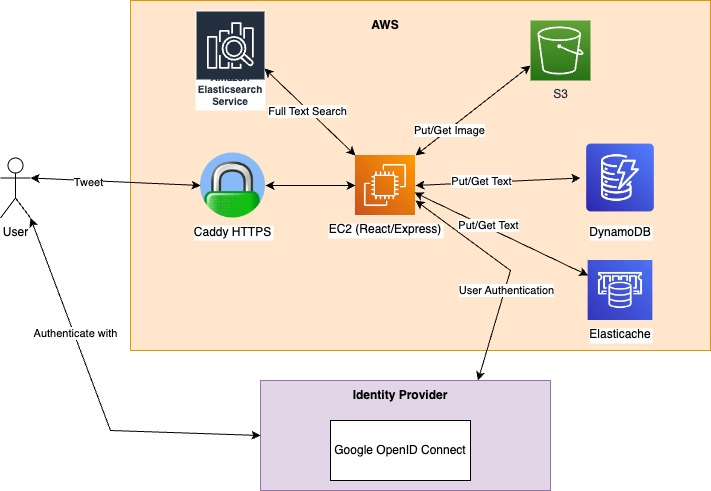
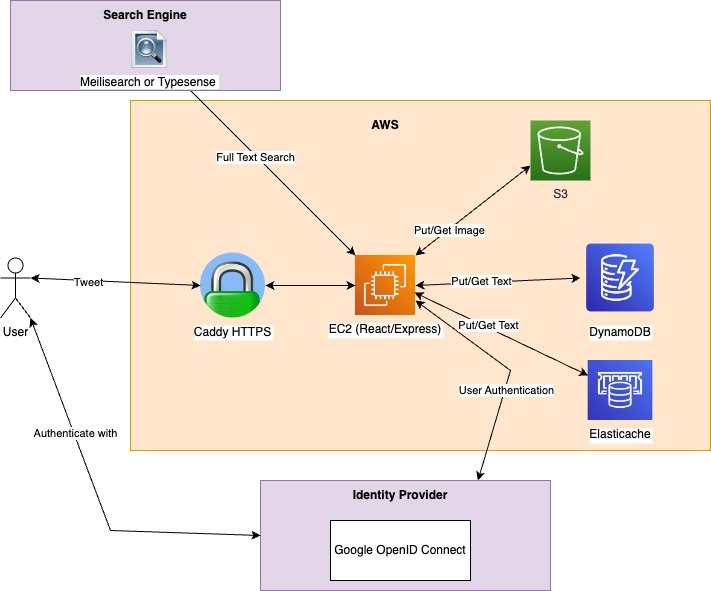
Change ElasticSearch to open source alternative

diff --git a/README.md b/README.md
@@ -18,14 +18,11 @@ This is a Twitter clone implemented in Typescript!
 ## Implementation
 
 - Language: Typescript
-- React and Next.js in the frontend
-- Express API in the backend
-- SSO using OIDC
-- Store image files in S3 using Pre-Signed URL
-- Use ElasticSearch service for full text search
-
-To simplify deployment, we serve the frontend from our backend.
-During development, we use a proxy to run the frontend and backend on the same port.
+- Frontend: React, Next.js, Material UI
+- Backend: Express
+- Auth: SSO using OIDC
+- Storage: DynamoDB as the main data store, Elasticache for speeding up reads, S3 to store images
+- Search: MeiliSearch or TypeSense
 
 ![Architecture](architecture.jpg)
 
